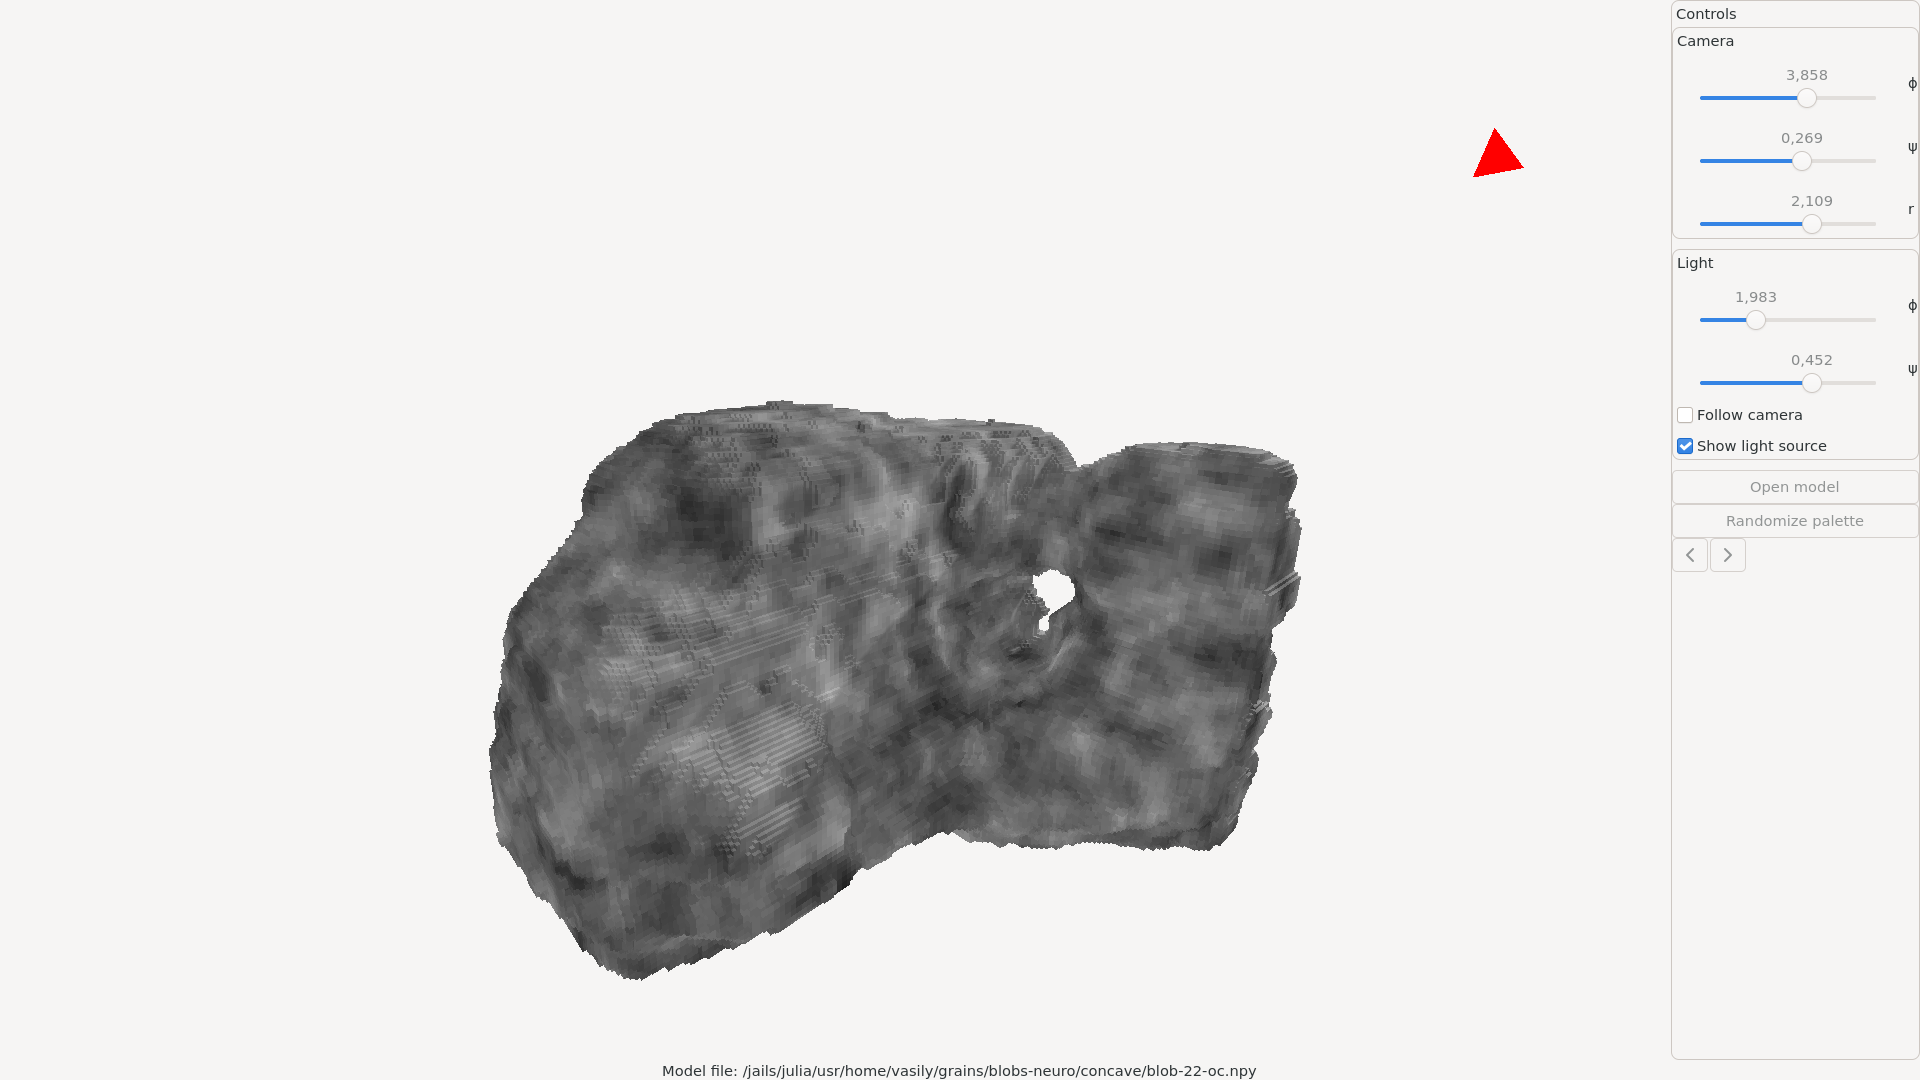
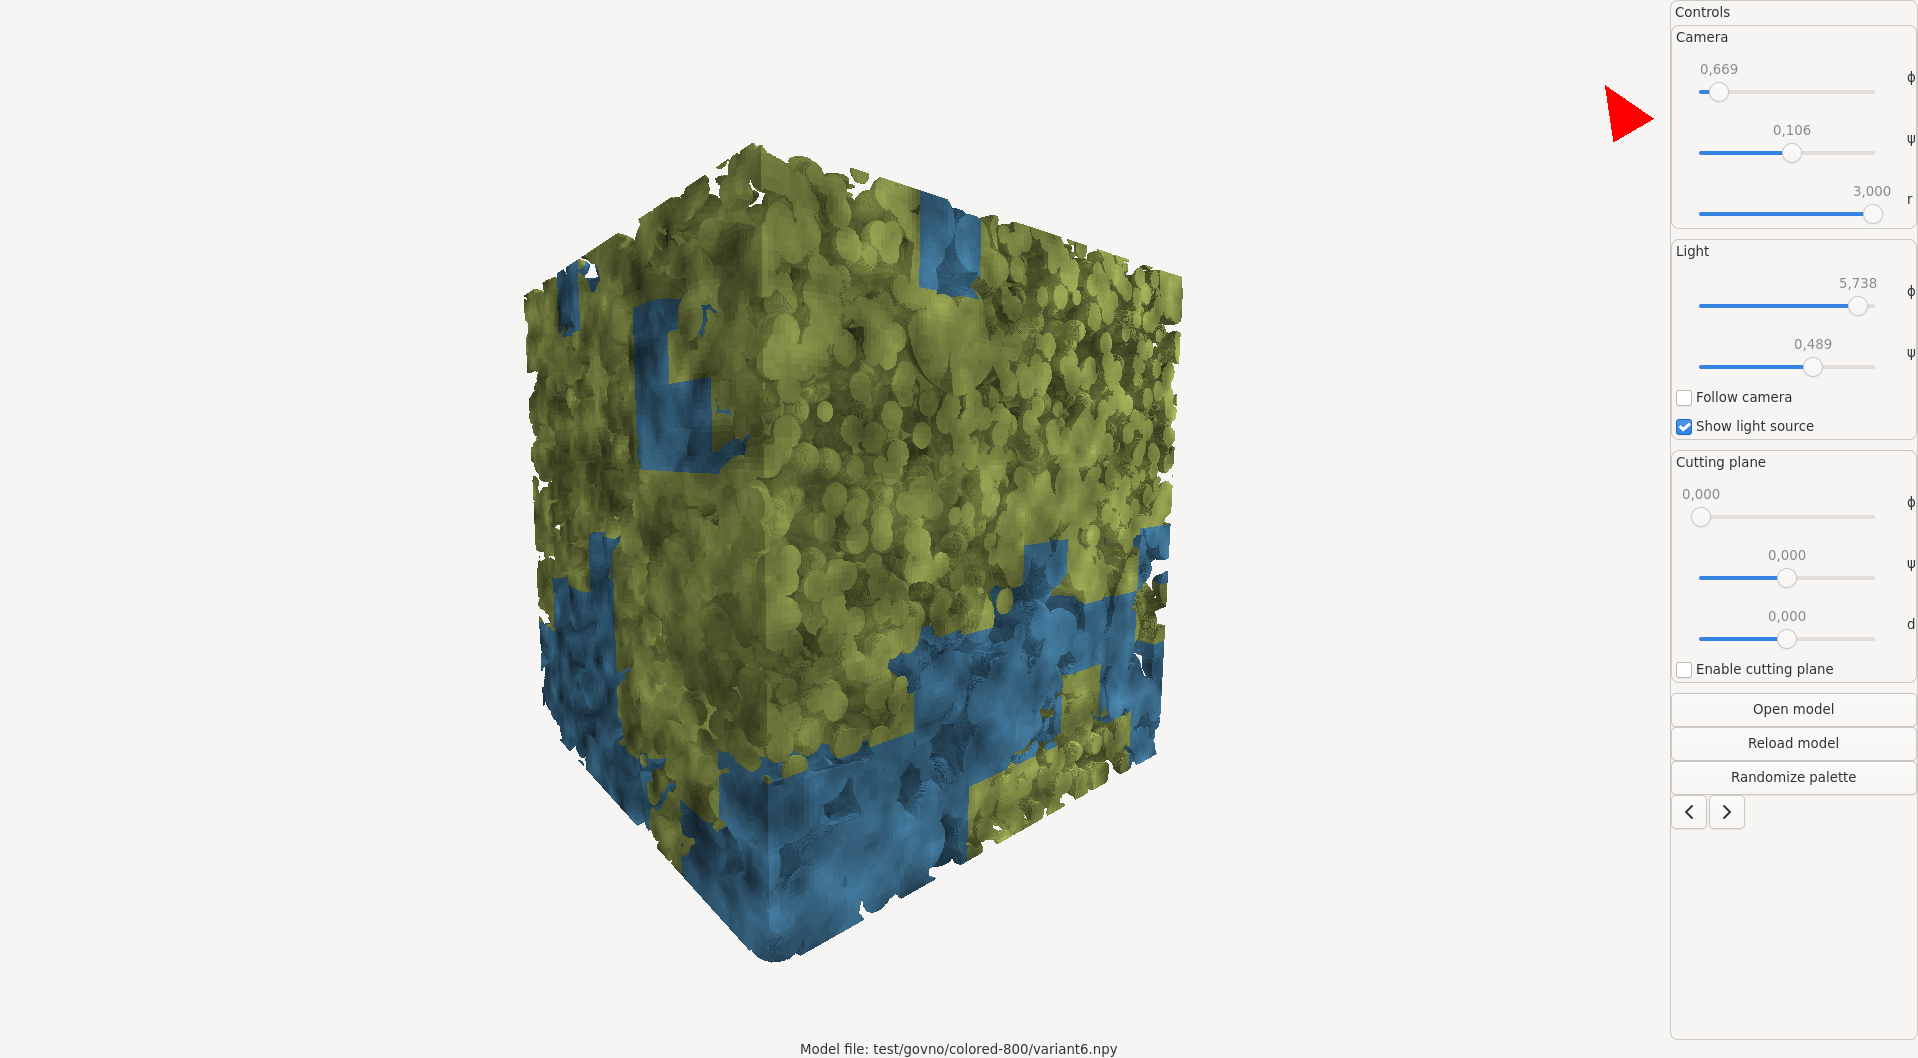
Version 0.3.0

diff --git a/README.md b/README.md
@@ -2,9 +2,11 @@
 
 ## Intro
 
-This program visualizes three-dimensional arrays of bits by drawing a small cube
-on the boundary between 0 and 1 values in the array. This can be useful for
-visualizing various spatial data in a voxel form.
+This program visualizes three-dimensional voxel data.
+
+It accepts input in the form of numpy arrays (`.npy`) with `dtype == 'bool'` or
+`dtype == 'uint32'`. If an array has `uint32` elements voxview assigns its own
+random color for each non-zero value which appears in the array.
 
 ## Screenshots
 
@@ -16,7 +18,7 @@ visualizing various spatial data in a voxel form.
 
 Hardware: 
 
-* An OpenGL 4.3 compatible videocard
+* An OpenGL 4.3 compatible videocard (now I am not sure, maybe just 3.0 will do ;)
 
 Software: 
 
@@ -30,7 +32,7 @@ In this directory, run
 
 ~~~~
 $ qlot install
-$ qlot exec sbcl --dynamic-space-size 16gb
+$ qlot exec sbcl --dynamic-space-size 32gb
 ~~~~
 
 This will start SBCL REPL. In the REPL run
@@ -46,6 +48,7 @@ Install a produced binary to your binary directory if you wish.
 * Value noise texturing
 * Ambient and diffuse lights
 * Shadow map from a single point light source.
+* Cutting plane
 
 ## Tips
 

diff --git a/Changelog.md b/Changelog.md
@@ -1,5 +1,11 @@
 # Changelog
 
+## 0.2.3 → 0.3.0
+
+* Enhancement: Add cutting plane. Now it is possible to see what's inside the
+  model.
+* Geometry is now calculated on CPU and geometry stage shader is removed.
+
 ## 0.2.2 → 0.2.3
 
 * Enhancement: Voxview now accepts arrays with `dtype='uint32'` in addition to
